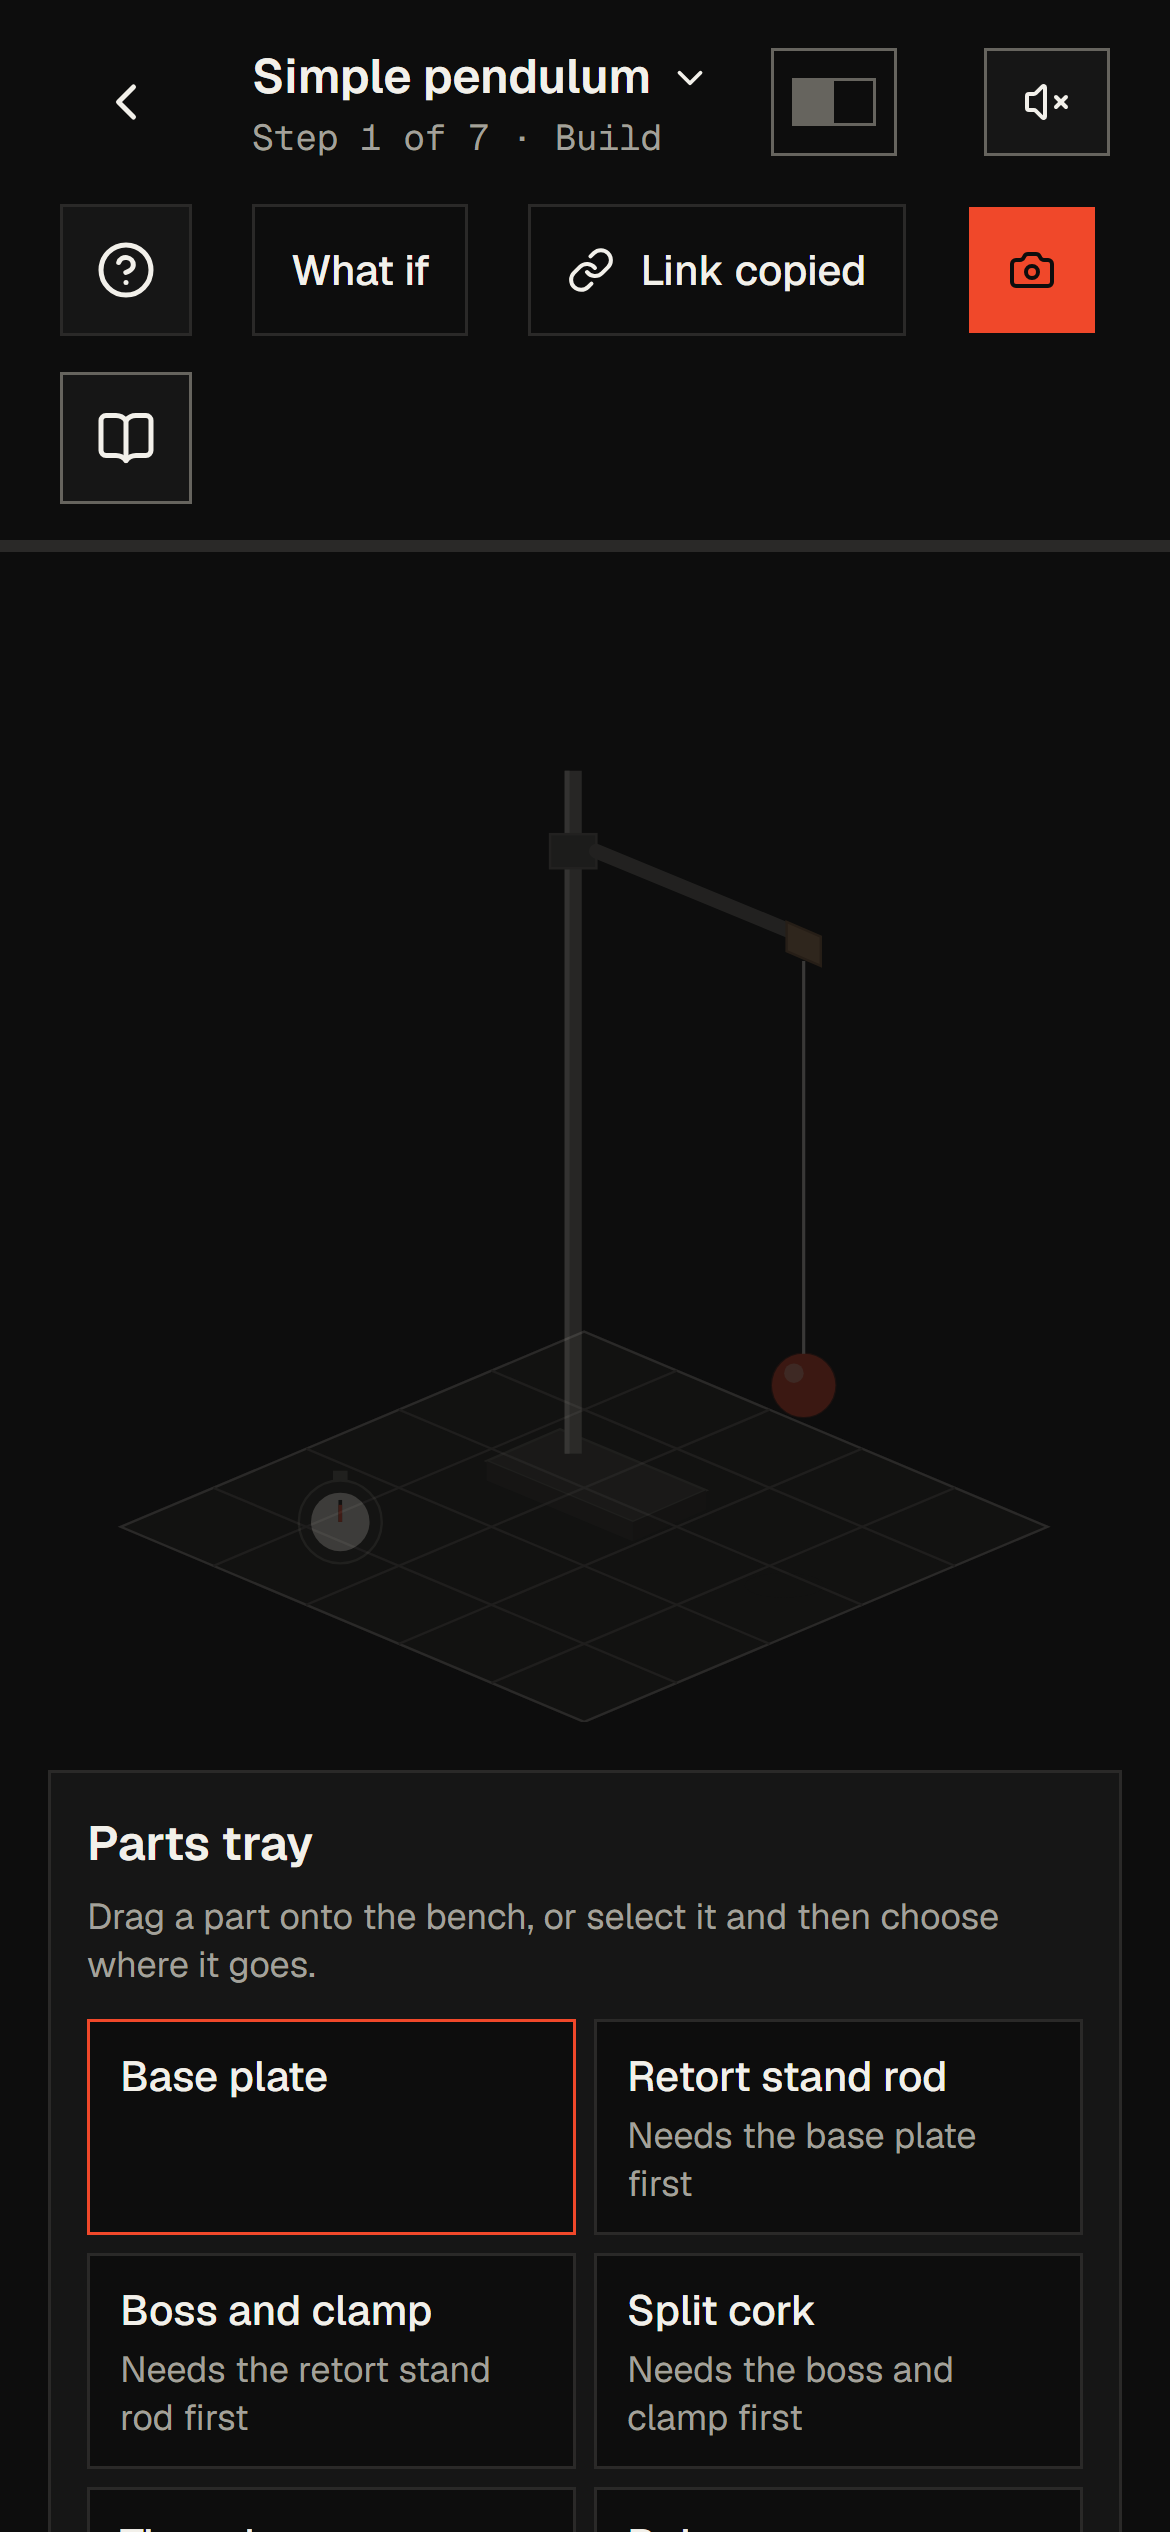
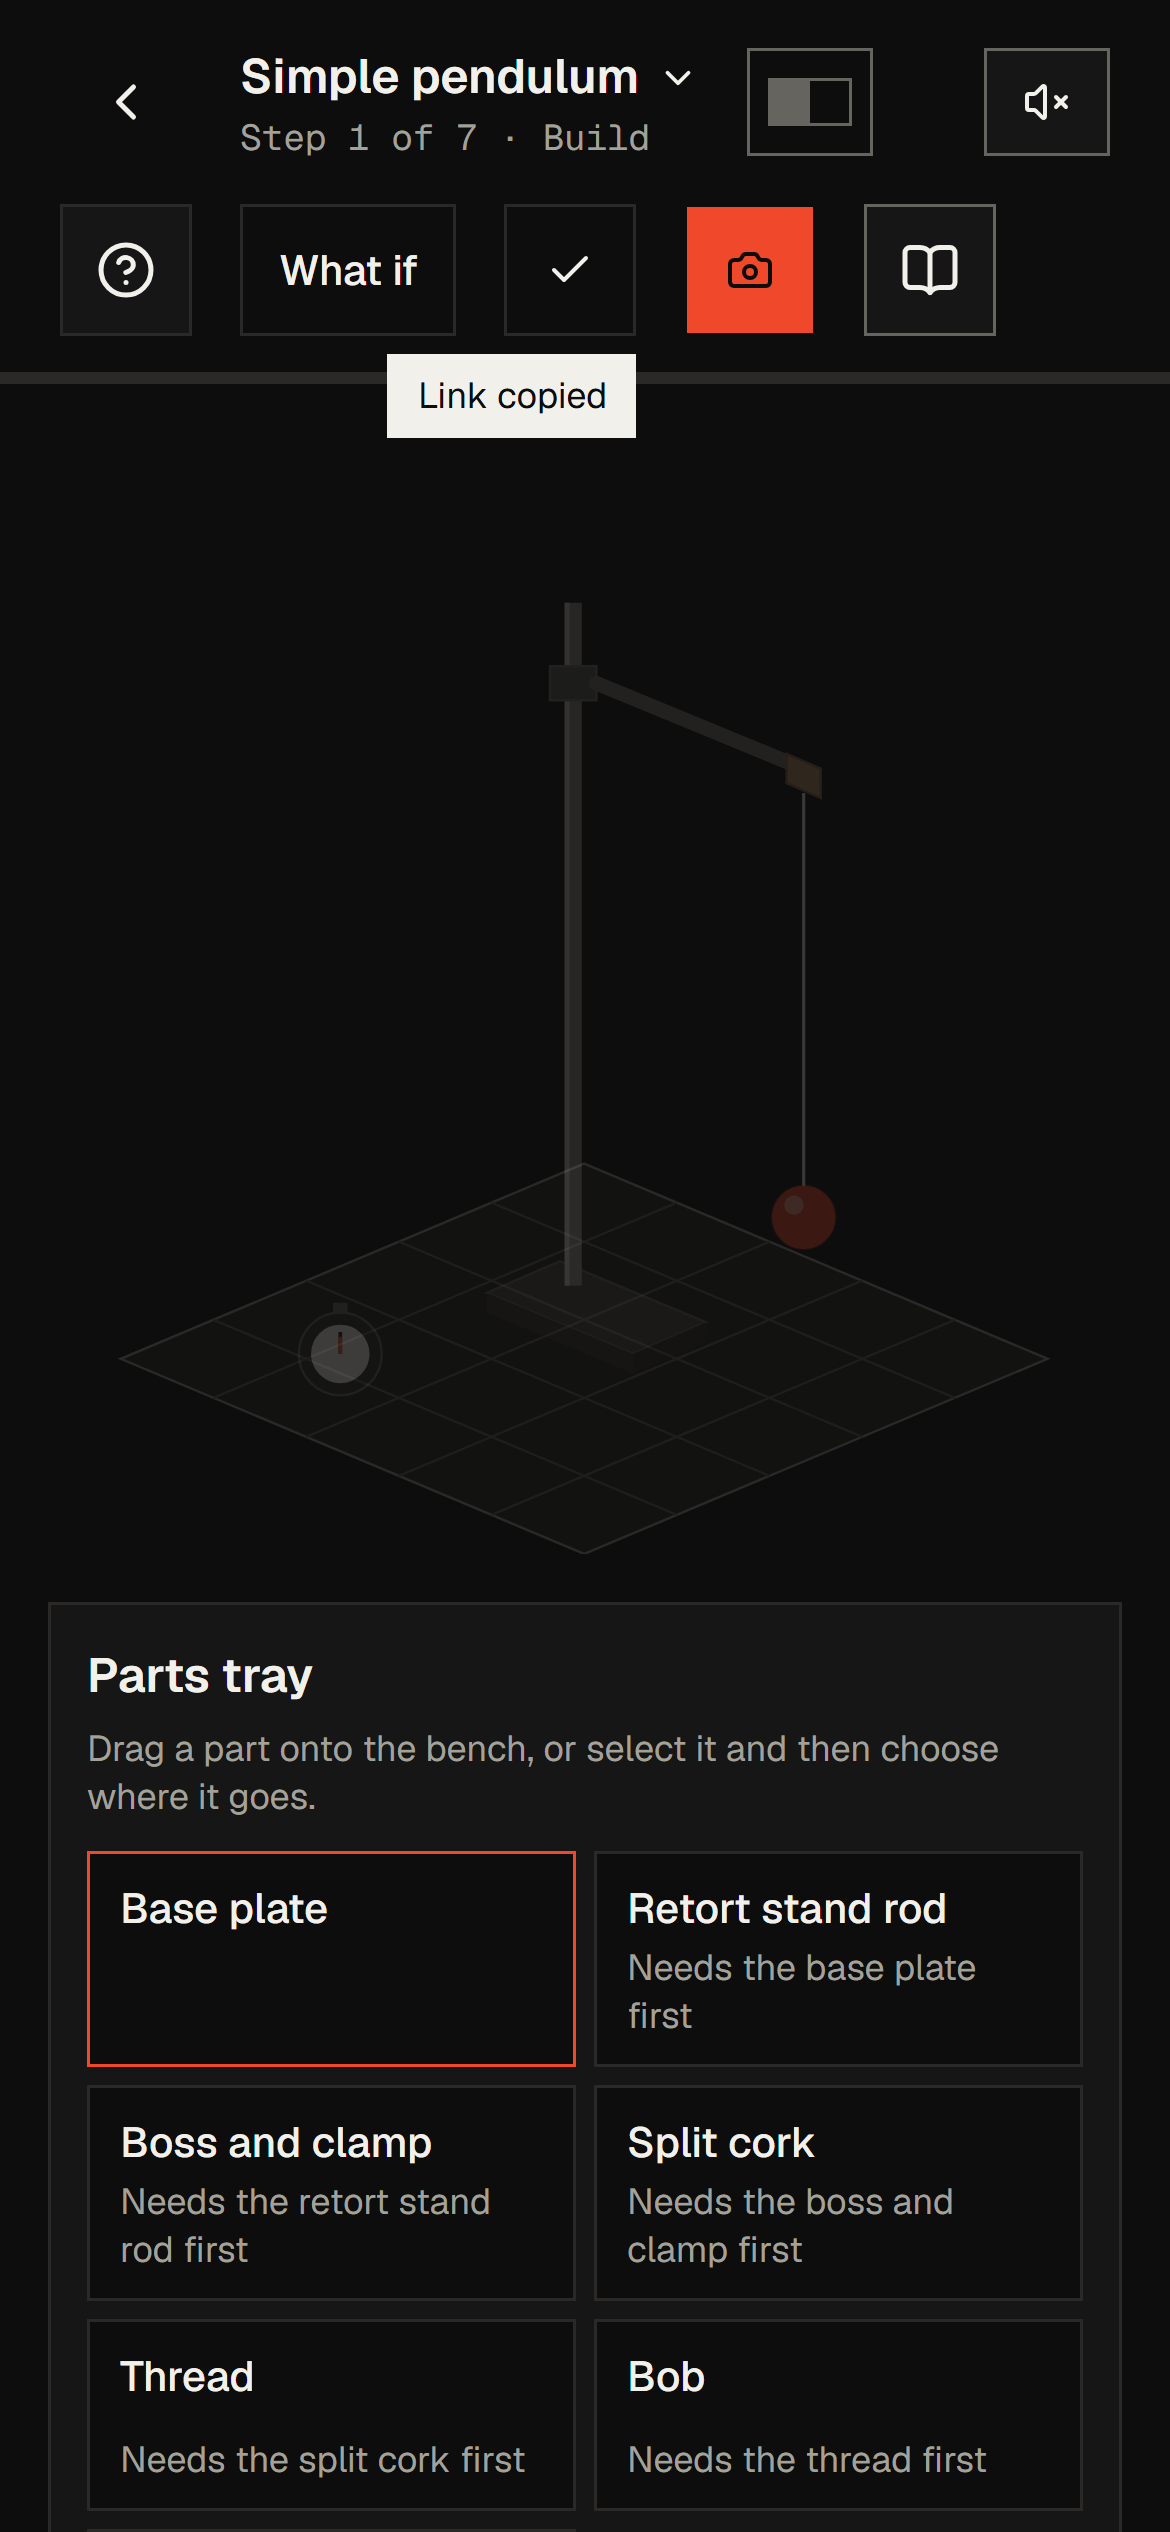
fix(lab): keep the header on one row; update pendulum specs for the shorter flow
Share link is the link icon below 1600 px, with "Link copied" and the
fallback field opening just under it, and the pendulum header's gap is
16 px below 1440 px, so Snapshot stays on the first row at 1280 as
before. Specs updated for the pendulum's step numbers (Build is step 1
of 7) and the tutor's step.

diff --git a/apps/web/src/app/lab/lab-switch.tsx b/apps/web/src/app/lab/lab-switch.tsx
@@ -5,7 +5,7 @@ import { t, type MessageKey } from "@pa/i18n";
 import { cn } from "@pa/ui";
 import { Button } from "@pa/ui/components/button";
 import { Menu, MenuContent, MenuLinkItem, MenuTrigger } from "@pa/ui/components/menu";
-import { ChevronDownIcon, LinkIcon } from "@pa/ui/icons";
+import { CheckIcon, ChevronDownIcon, LinkIcon } from "@pa/ui/icons";
 import Link from "next/link";
 import { useEffect, useRef, useState } from "react";
 
@@ -135,14 +135,30 @@ export function ShareLink({ experimentId }: { experimentId: string }) {
     }
   };
 
+  const copied = state === "copied";
+  // The label shows where the top bar has room for it (1600 px and wider); narrower, the button is
+  // the link icon, and "Link copied" and the fallback field open just below it, so the top bar
+  // keeps to one row.
   return (
-    <div className="flex items-center gap-2">
-      <Button variant="outline" className="h-9 gap-2 px-3" onClick={() => void share()}>
-        <LinkIcon aria-hidden />
-        <span className={cn(state !== "copied" && "sr-only md:not-sr-only")}>
-          {state === "copied" ? t("lab.share.copied") : t("lab.share.label")}
+    <div className="relative">
+      <Button
+        variant="outline"
+        className="h-9 gap-2 px-2.5 min-[1600px]:px-3"
+        onClick={() => void share()}
+      >
+        {copied ? <CheckIcon aria-hidden /> : <LinkIcon aria-hidden />}
+        <span className="sr-only min-[1600px]:not-sr-only">
+          {copied ? t("lab.share.copied") : t("lab.share.label")}
         </span>
       </Button>
+      {copied && (
+        <span
+          aria-hidden
+          className="pointer-events-none absolute top-full right-0 z-20 mt-1.5 bg-foreground px-2.5 py-1.5 text-xs whitespace-nowrap text-background min-[1600px]:hidden"
+        >
+          {t("lab.share.copied")}
+        </span>
+      )}
       {state === "manual" && (
         <input
           ref={field}
@@ -150,7 +166,9 @@ export function ShareLink({ experimentId }: { experimentId: string }) {
           value={url}
           aria-label={t("lab.share.field")}
           onFocus={(e) => e.currentTarget.select()}
-          className="h-9 w-56 border border-input bg-surface px-2.5 font-mono text-xs text-foreground"
+          onBlur={() => setState("idle")}
+          onKeyDown={(e) => e.key === "Escape" && setState("idle")}
+          className="absolute top-full right-0 z-20 mt-1.5 h-9 w-72 max-w-[calc(100vw-2rem)] border border-input bg-surface px-2.5 font-mono text-xs text-foreground"
         />
       )}
       <span role="status" className="sr-only">

diff --git a/e2e/tests/review.spec.ts b/e2e/tests/review.spec.ts
@@ -45,7 +45,7 @@ test("the review lists the mistake with what it did to g, and Compare opens once
     .locator("div")
     .filter({ hasText: 'You said "one" on the first pass' })
     .last();
-  await expect(card).toContainText("Step 5 · Measure");
+  await expect(card).toContainText("Step 2 · Measure");
   await expect(card).toContainText("Still in your result");
   // Rule 1: the size comes from packages/experiments and packages/physics.
   const percent = Math.round(readingErrorPercent({ count: 20, countedFromOne: true }, 9.81)!);
@@ -104,7 +104,7 @@ test("redoing from Measure starts run 2 with the work before it, and keeps run 1
     .locator("div")
     .filter({ hasText: /^Run 2/ })
     .last();
-  await expect(run2.getByText("from run 1")).toHaveCount(4);
+  await expect(run2.getByText("from run 1")).toHaveCount(1);
   await page.getByRole("button", { name: "Run 1", exact: true }).click();
   await expect(review(page).getByText('You said "one" on the first pass')).toBeVisible();
 });

diff --git a/e2e/tests/tutor.spec.ts b/e2e/tests/tutor.spec.ts
@@ -56,7 +56,7 @@ test("a student asks the tutor from the help menu and reads the reply", async ({
   const sent = asked[0]?.postDataJSON() as Record<string, unknown>;
   expect(sent).toMatchObject({
     experiment_id: "simple-pendulum",
-    step: "question",
+    step: "build",
     student_text: "Why do I count from zero?",
     thread: [],
   });
@@ -85,7 +85,7 @@ test("a student reports a reply, and only the reply and the reason are sent", as
   expect(flags[0]?.postDataJSON()).toEqual({
     feature: "tutor",
     experiment_id: "simple-pendulum",
-    step: "question",
+    step: "build",
     reason: "confusing",
     reply: "Start counting at zero. Then T = t / 20 gives 1.806 s.",
   });

diff --git a/e2e/tests/notebook.spec.ts b/e2e/tests/notebook.spec.ts
@@ -67,7 +67,7 @@ test("finishing building puts a labelled figure of the bench in the notebook", a
   await expect(figure.getByText("G: Stopwatch")).toBeVisible();
   await expect(figure.getByText("l = 0.800 m")).toBeVisible();
   await expect(figure.getByText(/Simple pendulum, version 1 · .* · seed \d+/)).toBeVisible();
-  await expect(details(page).getByText("Step 3: Build")).toBeVisible();
+  await expect(details(page).getByText("Step 1: Build")).toBeVisible();
 });
 
 test("C takes a snapshot anywhere in the lab", async ({ page }, info) => {

diff --git a/apps/web/src/app/lab/lab-screen.tsx b/apps/web/src/app/lab/lab-screen.tsx
@@ -1931,7 +1931,7 @@ const LabHeader = memo(function LabHeader({
   const state = handle.state;
   const back = shownNeighbour(E.id, state.step, -1);
   return (
-    <header className="flex flex-wrap items-center gap-x-5 gap-y-3 border-b border-border px-5 py-3">
+    <header className="flex flex-wrap items-center gap-x-4 gap-y-3 min-[1440px]:gap-x-5 border-b border-border px-5 py-3">
       <Link
         prefetch={false}
         href="/"

diff --git a/e2e/tests/report.spec.ts b/e2e/tests/report.spec.ts
@@ -55,7 +55,7 @@ async function download(page: Page, kind: RegExp) {
   return { name: file.suggestedFilename(), bytes: await readFile((await file.path())!) };
 }
 
-test("the report is written from the run, in the WASSCE format, and opens from step 10", async ({
+test("the report is written from the run, in the WASSCE format, and opens from the Report step", async ({
   page,
 }) => {
   await aRun(page);
